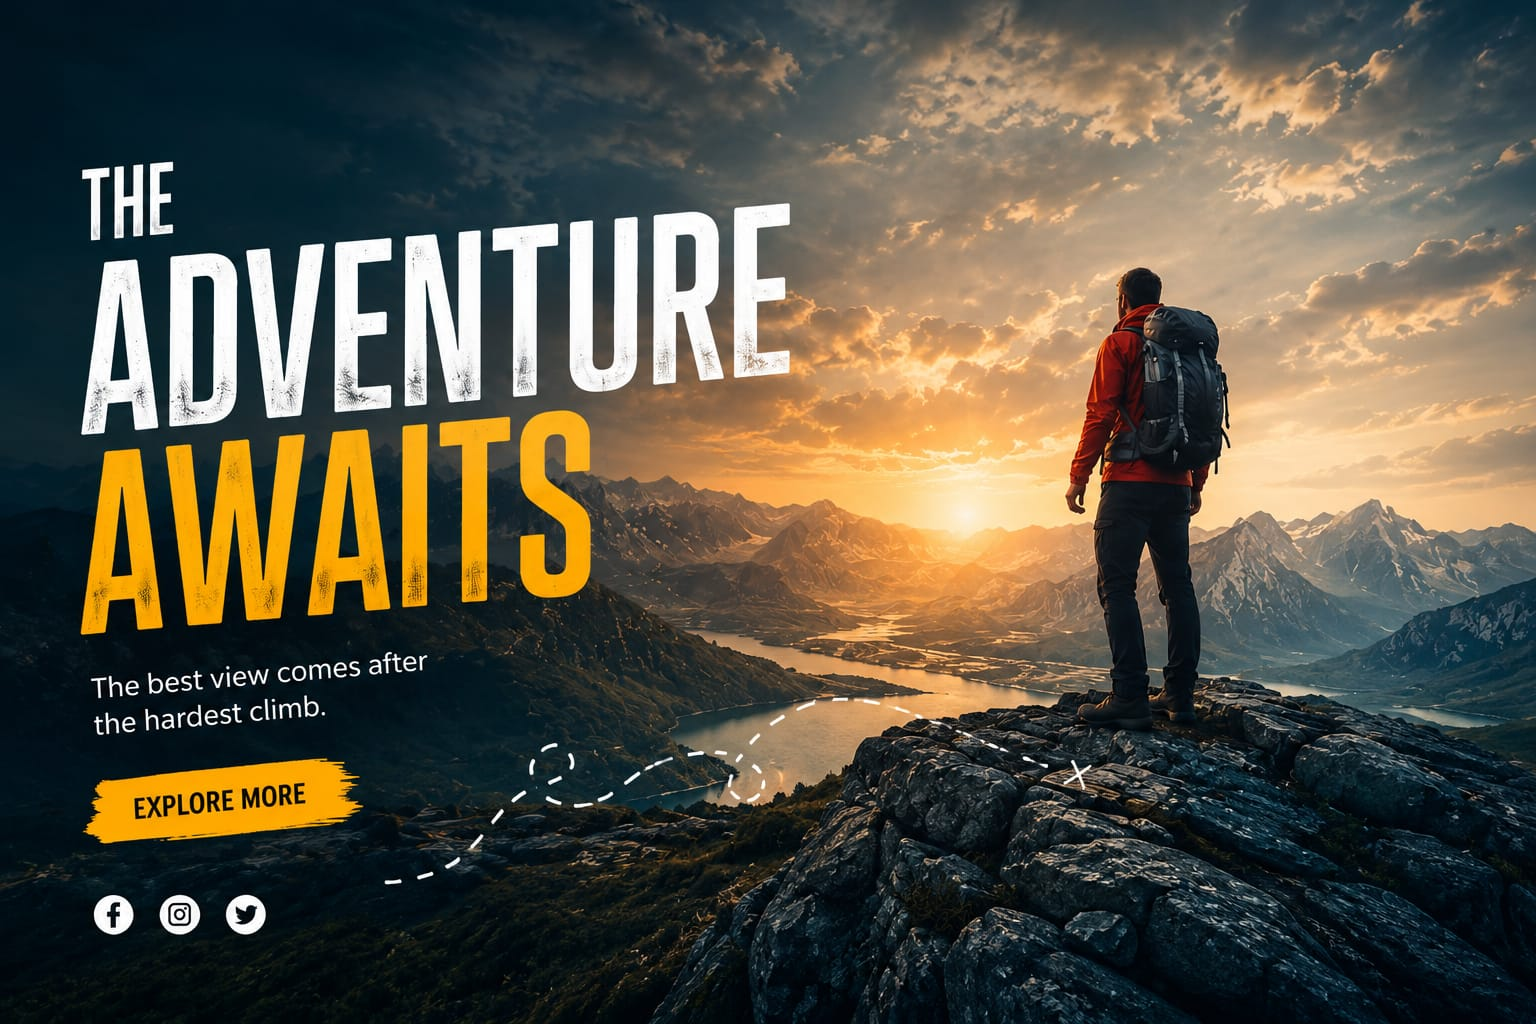
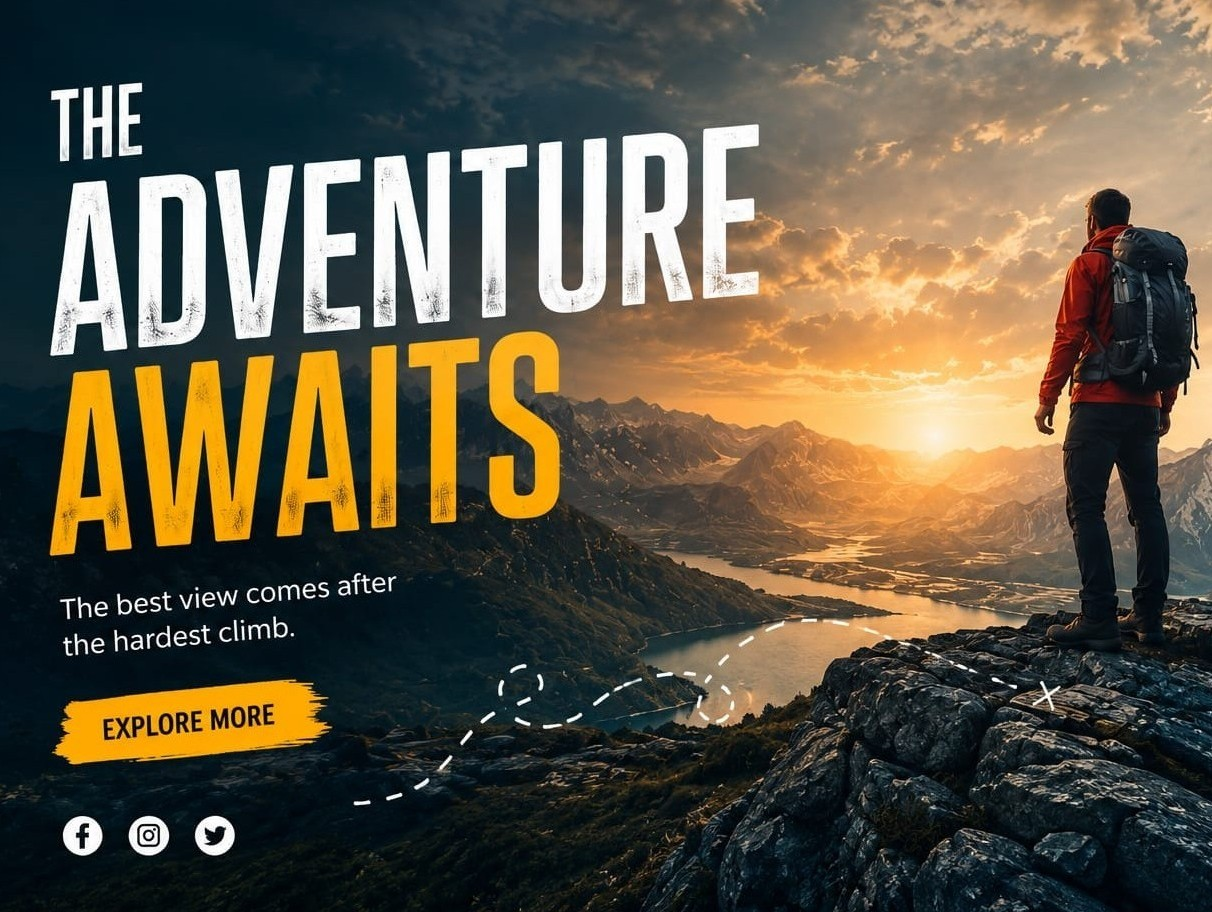
some fix in about section

diff --git a/src/sections/AboutSection.tsx b/src/sections/AboutSection.tsx
@@ -77,13 +77,13 @@ export const AboutSection = () => {
   const containerRef = useRef<HTMLDivElement>(null);
   const { scrollYProgress } = useScroll({
     target: containerRef,
-    offset: ['start center', 'end end']
+    offset: ['15% start', '85% end']
   });
 
   return (
     <section id="about" className="relative w-full bg-transparent">
       {/* Tall Scroll Track for the Scrubbing Text */}
-      <div ref={containerRef} className="w-full min-h-[150vh] relative pt-20">
+      <div ref={containerRef} className="w-full min-h-[400vh] relative pt-20">
         
         {/* Sticky Container */}
         <div className="sticky top-0 h-screen flex flex-col items-center justify-center overflow-hidden w-full max-w-[1400px] mx-auto px-5 sm:px-8 md:px-10">
@@ -112,7 +112,7 @@ export const AboutSection = () => {
       </div>
 
       {/* Skills & Resume - comes naturally after scrolling the 150vh */}
-      <div className="flex flex-col items-center z-10 relative w-full max-w-[1400px] mx-auto px-5 sm:px-8 md:px-10 pb-20">
+      <div className="flex flex-col items-center z-10 relative w-full max-w-[1400px] mx-auto px-5 sm:px-8 md:px-10 pb-20 mt-16 sm:mt-24 md:mt-32">
 
         {/* Visual Skills Block */}
         <FadeIn delay={0.3} y={20} className="flex flex-col w-full max-w-6xl mb-16 sm:mb-20 md:mb-24 gap-10">

diff --git a/src/pages/ProjectPage.tsx b/src/pages/ProjectPage.tsx
@@ -78,7 +78,7 @@ export const ProjectPage = () => {
       />
       {/* Floating Back Button */}
       <button 
-        onClick={() => navigate(-1)}
+        onClick={() => navigate('/')}
         className="fixed top-10 lg:top-8 left-5 sm:left-8 md:left-12 z-50 flex items-center gap-2 text-xs font-bold uppercase tracking-widest text-white bg-[#1A1A1A] hover:bg-[#2A2A2A] px-6 py-3.5 lg:px-5 lg:py-2.5 rounded-full transition-all active:scale-95"
       >
         <svg width="16" height="16" viewBox="0 0 24 24" fill="none" stroke="currentColor" strokeWidth="2.5" strokeLinecap="round" strokeLinejoin="round">

diff --git a/src/components/AnimatedText.tsx b/src/components/AnimatedText.tsx
@@ -56,7 +56,7 @@ export const AnimatedText: React.FC<AnimatedTextProps> = ({ text, className = ''
 
 const Char = ({ char, progress, index, totalLength }: { char: string, progress: MotionValue<number>, index: number, totalLength: number }) => {
   const start = index / totalLength;
-  const end = start + 0.1;
+  const end = start + (3 / totalLength); // Fade over 3 characters distance instead of 10% of total
   const opacity = useTransform(progress, [start, end], [0.2, 1]);
 
   return (
